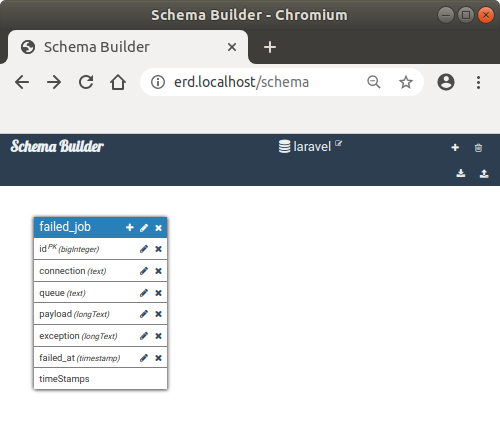
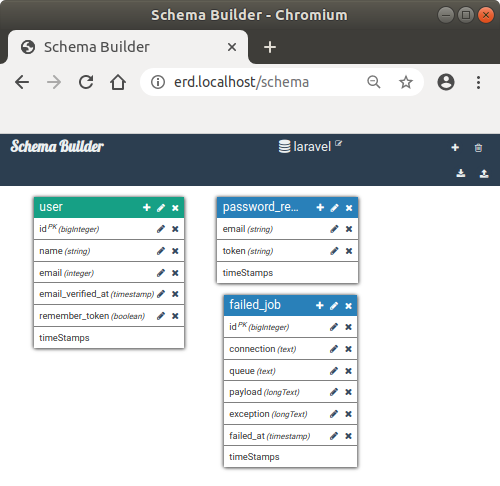
readme

diff --git a/README.md b/README.md
@@ -4,25 +4,29 @@
 
 ### [SaaS](https://en.wikipedia.org/wiki/Software_as_a_service) conform [Google Search](https://developers.google.com/search) [Structured data](https://developers.google.com/search/docs/data-types/local-business)
 
-SaaS, Organizations of Persons.
+- Organizations
+- Persons
 
 ![SaaS Entity-Relationship Diagram](./docs/saas/erd.png?raw=true "SaaS Entity-Relationship Diagram")
 
 ### [OAuth 2.0](https://en.wikipedia.org/wiki/OAuth#OAuth_2.0)
 
-OAuth 2.0, Users.
+- OAuth 2.0
+- Users
 
 ![OAuth Entity-Relationship Diagram](./docs/oauth/erd.png?raw=true "OAuth Entity-Relationship Diagram")
 
 ### [Laravel](https://laravel.com/)
 
-FailedJobes queue system, contributing to scalability.
+- FailedJobes queue system, contributing to scalability
+- PasswordResets
+- Users
 
 ![Laravel Entity-Relationship Diagram](./docs/laravel/erd.png?raw=true "Laravel Entity-Relationship Diagram")
 
 ### ERD
 
-ERD Tables.
+- DataBaseTables
 
 ![ERD Entity-Relationship Diagram](./docs/erd/erd.png?raw=true "ERD Entity-Relationship Diagram")
 
